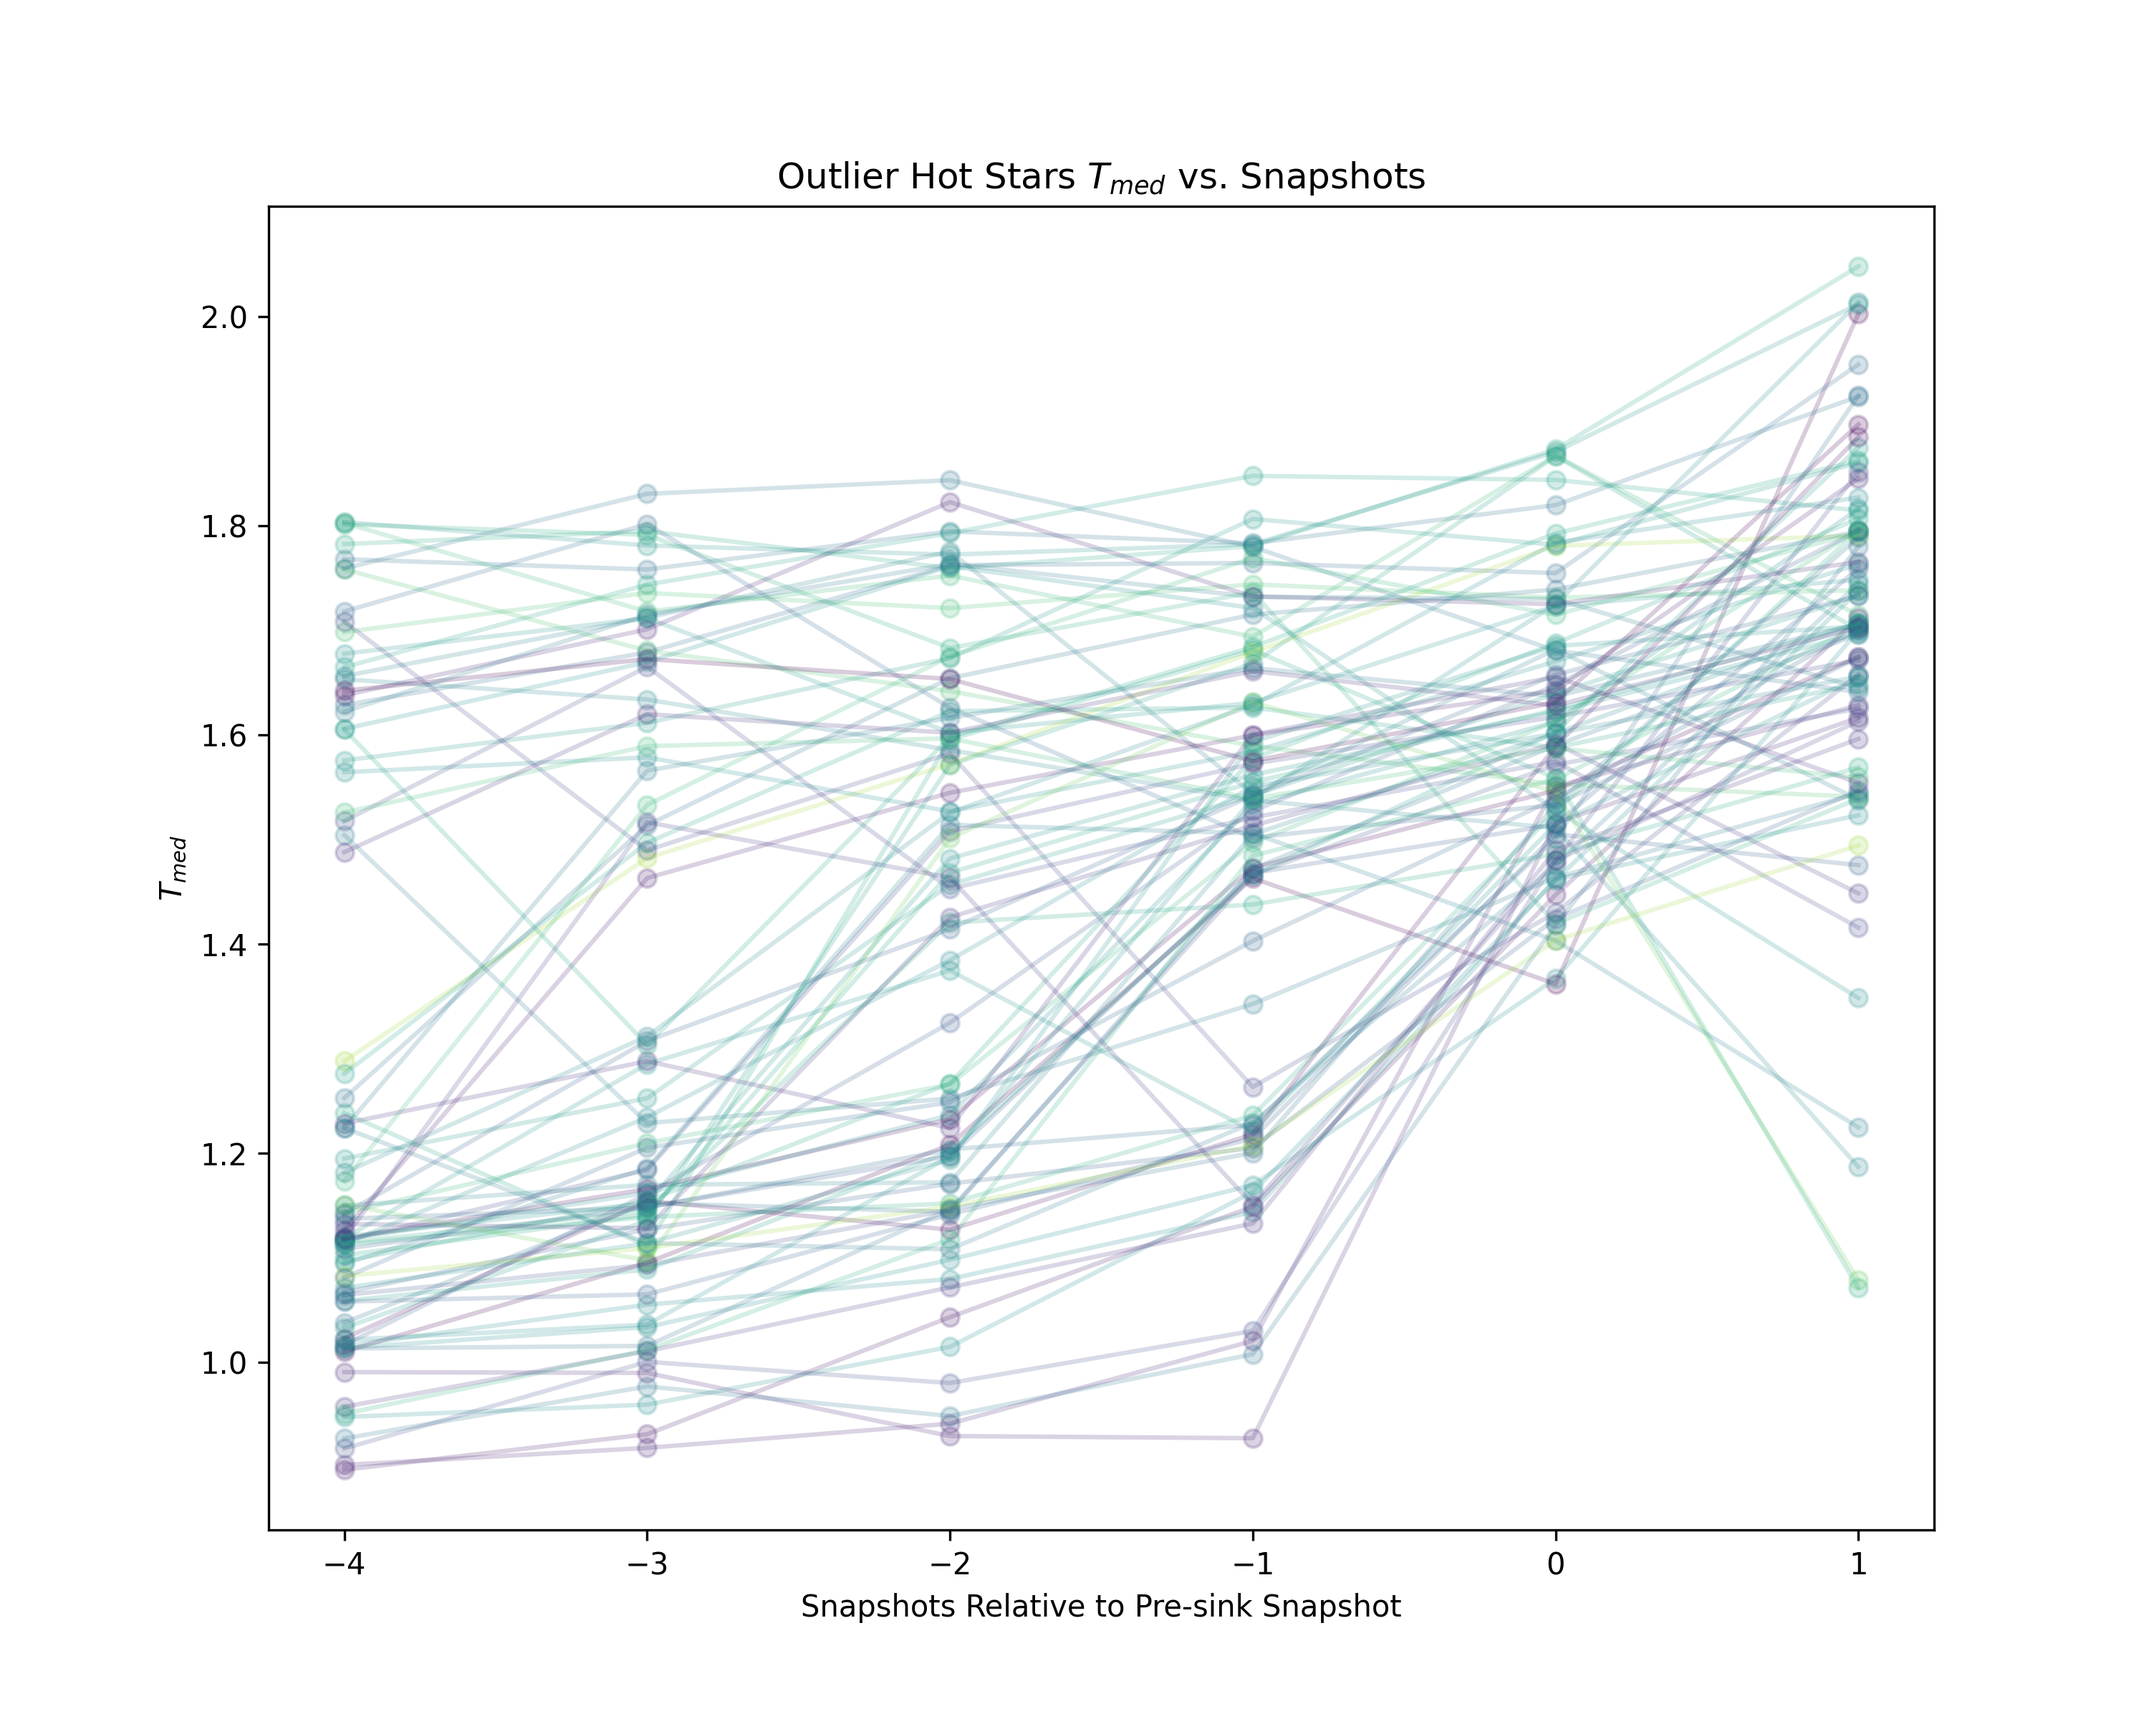
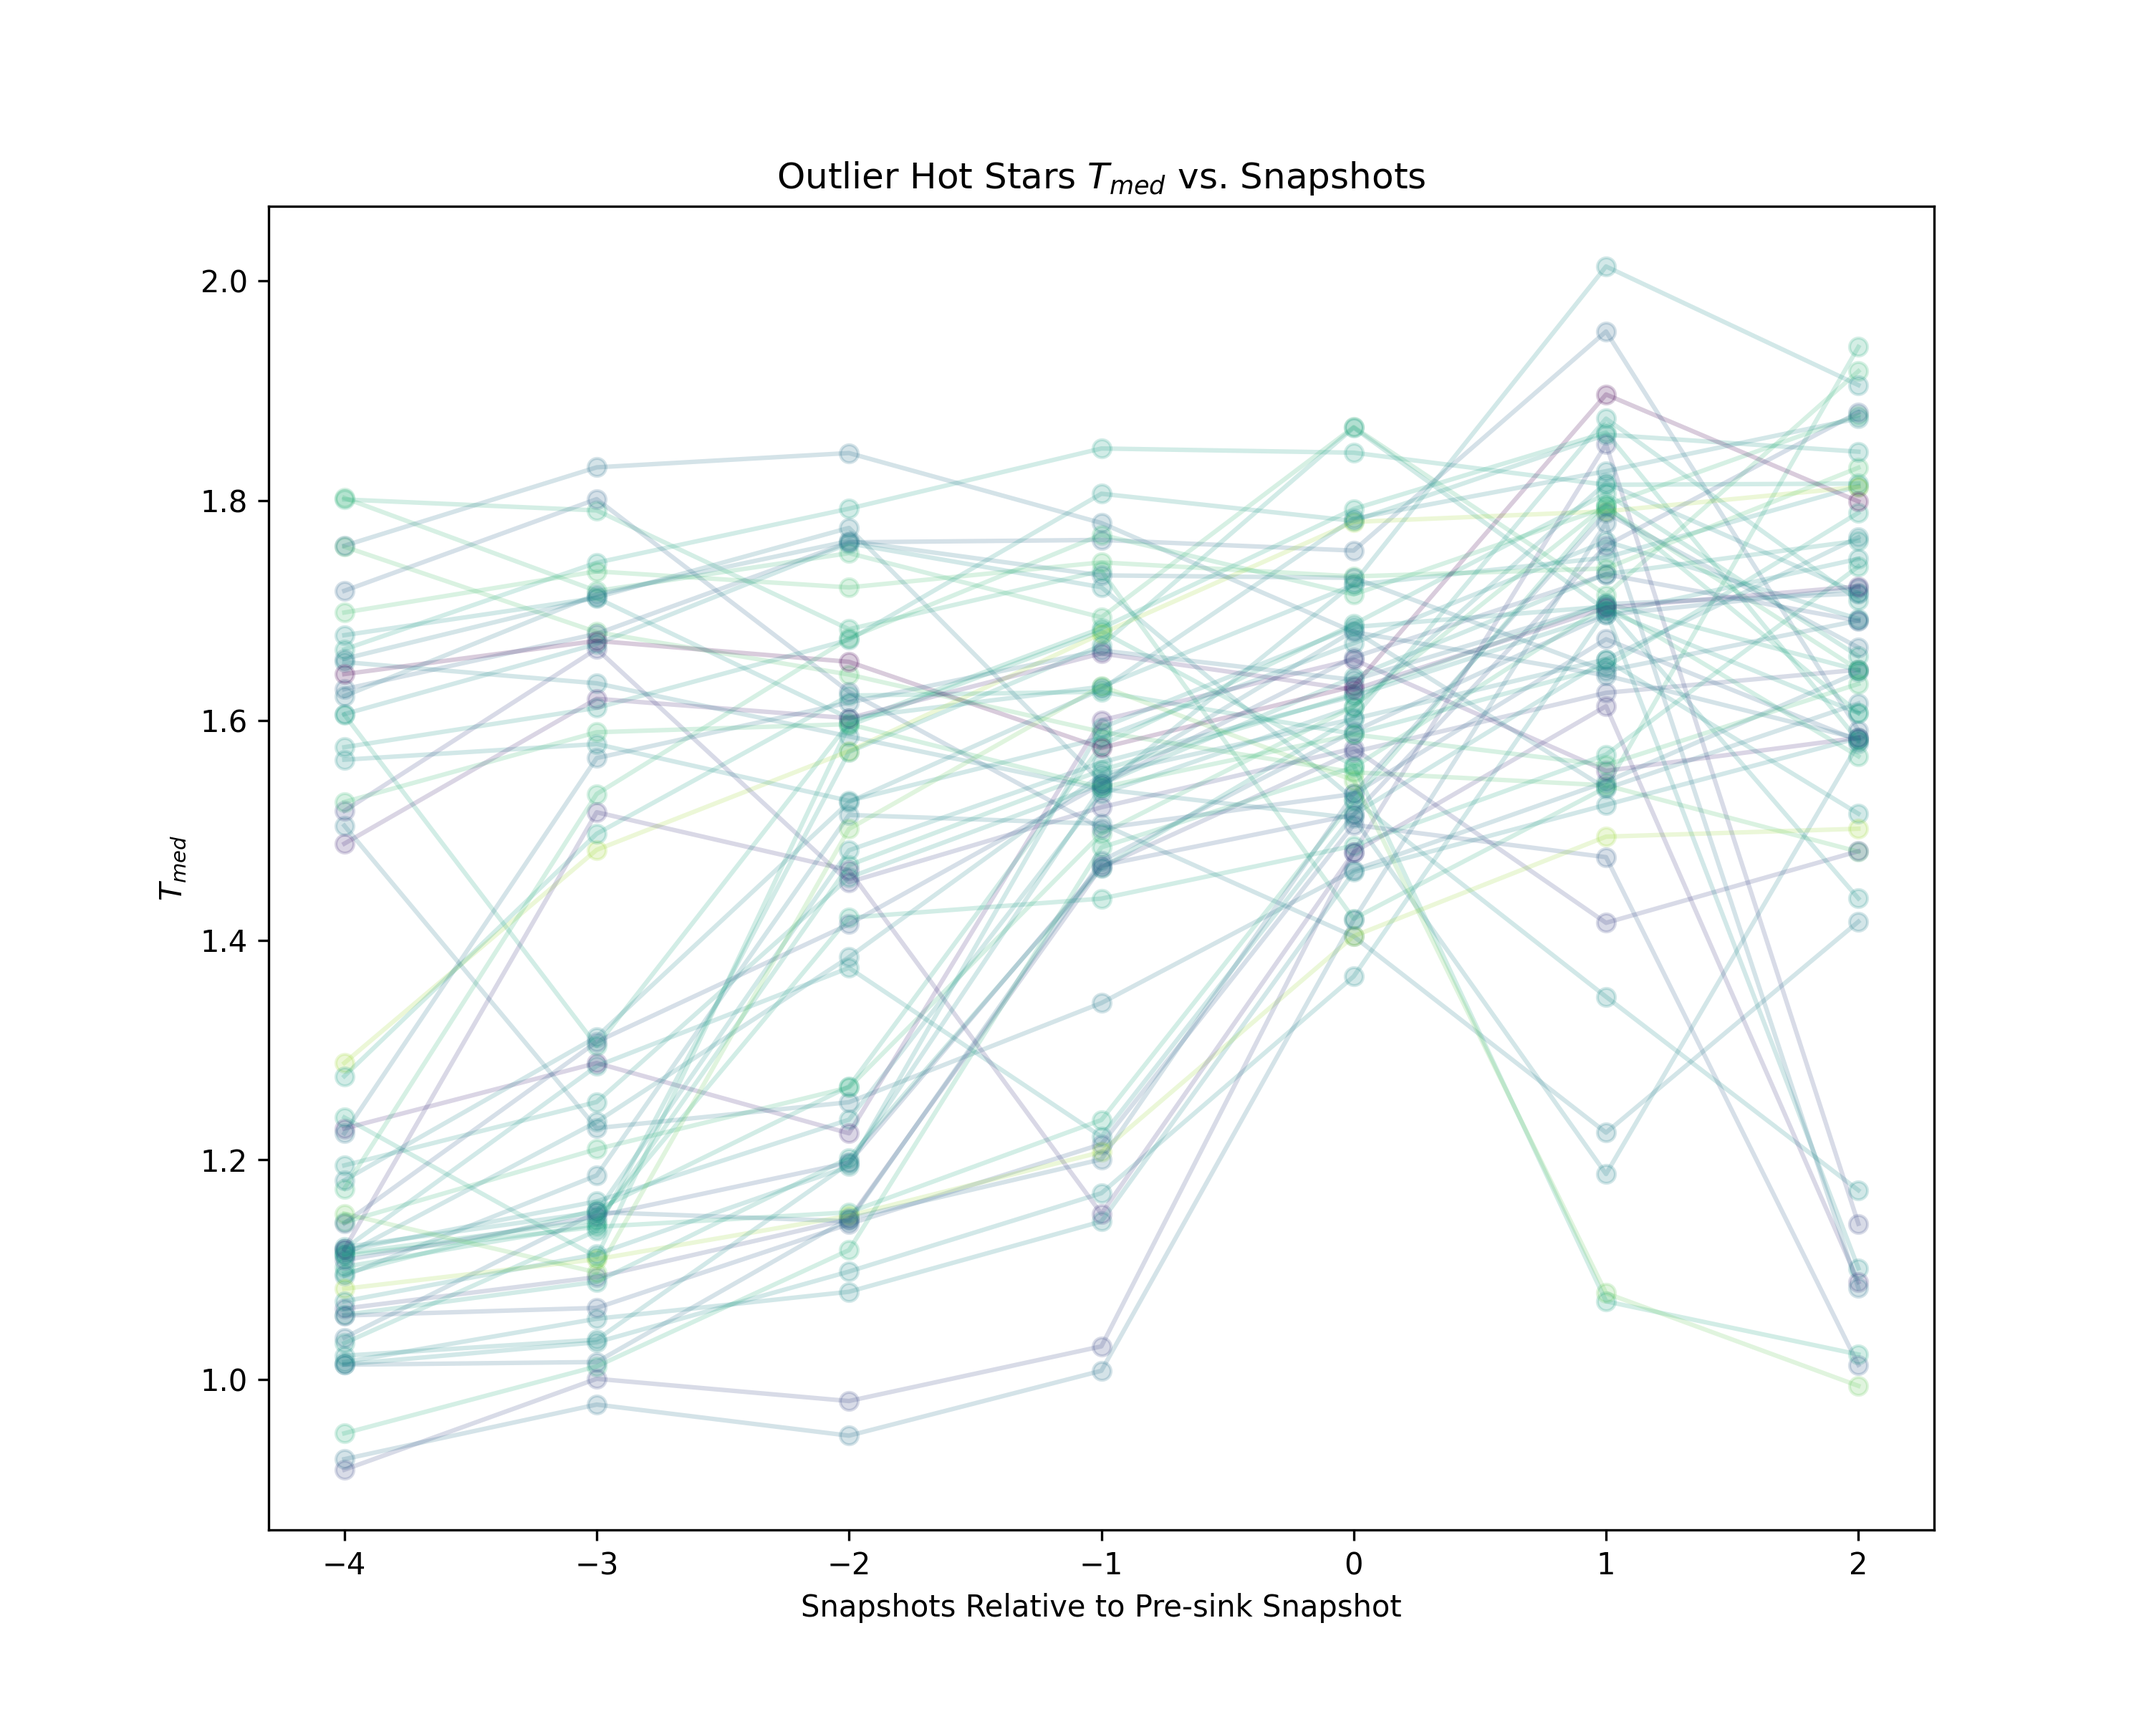
added outliers figure -2 idx

diff --git a/jeans_mass_analysis.py b/jeans_mass_analysis.py
@@ -196,7 +196,7 @@ def temp_time_series():
     df = log_data(train=n_snaps_extract(n_snaps=0), features=['rho_med', 'T_med', 'snap'])
     ids = df[(df['T_med'] > 1.3) & (10**df['mf'] > 0.1)].reset_index()['sink_id']
 
-    df_idx = set(n_snaps_extract(n_snaps=-1).set_index('sink_id').index)
+    df_idx = set(n_snaps_extract(n_snaps=-2).set_index('sink_id').index)
 
     ids = [id for id in ids if id in df_idx]
     id_dict = {id:[] for id in ids}
@@ -205,7 +205,7 @@ def temp_time_series():
     plt.figure(figsize=(10, 8))
 
 
-    for snap in range (-1, 5):
+    for snap in range (-2, 5):
         # going 2 snapshots forward in time stars start to have 0 accreting particles
         snap_df = log_data(train=n_snaps_extract(n_snaps=snap), features=['rho_med', 'T_med', 'snap'])
 
@@ -217,8 +217,8 @@ def temp_time_series():
     cmap = plt.get_cmap('viridis')
     
     for id in ids:
-        plt.plot(range(-4 , 2), id_dict[id][::-1], alpha=0.2, c=cmap(norm(df.loc[id]['mf'])))
-        plt.scatter(range(-4, 2), id_dict[id][::-1], alpha=0.2, c=cmap(norm(df.loc[id]['mf'])))
+        plt.plot(range(-4 , 3), id_dict[id][::-1], alpha=0.2, c=cmap(norm(df.loc[id]['mf'])))
+        plt.scatter(range(-4, 3), id_dict[id][::-1], alpha=0.2, c=cmap(norm(df.loc[id]['mf'])))
 
     plt.title(r'Outlier Hot Stars $T_{med}$ vs. Snapshots')
     plt.xlabel('Snapshots Relative to Pre-sink Snapshot')
